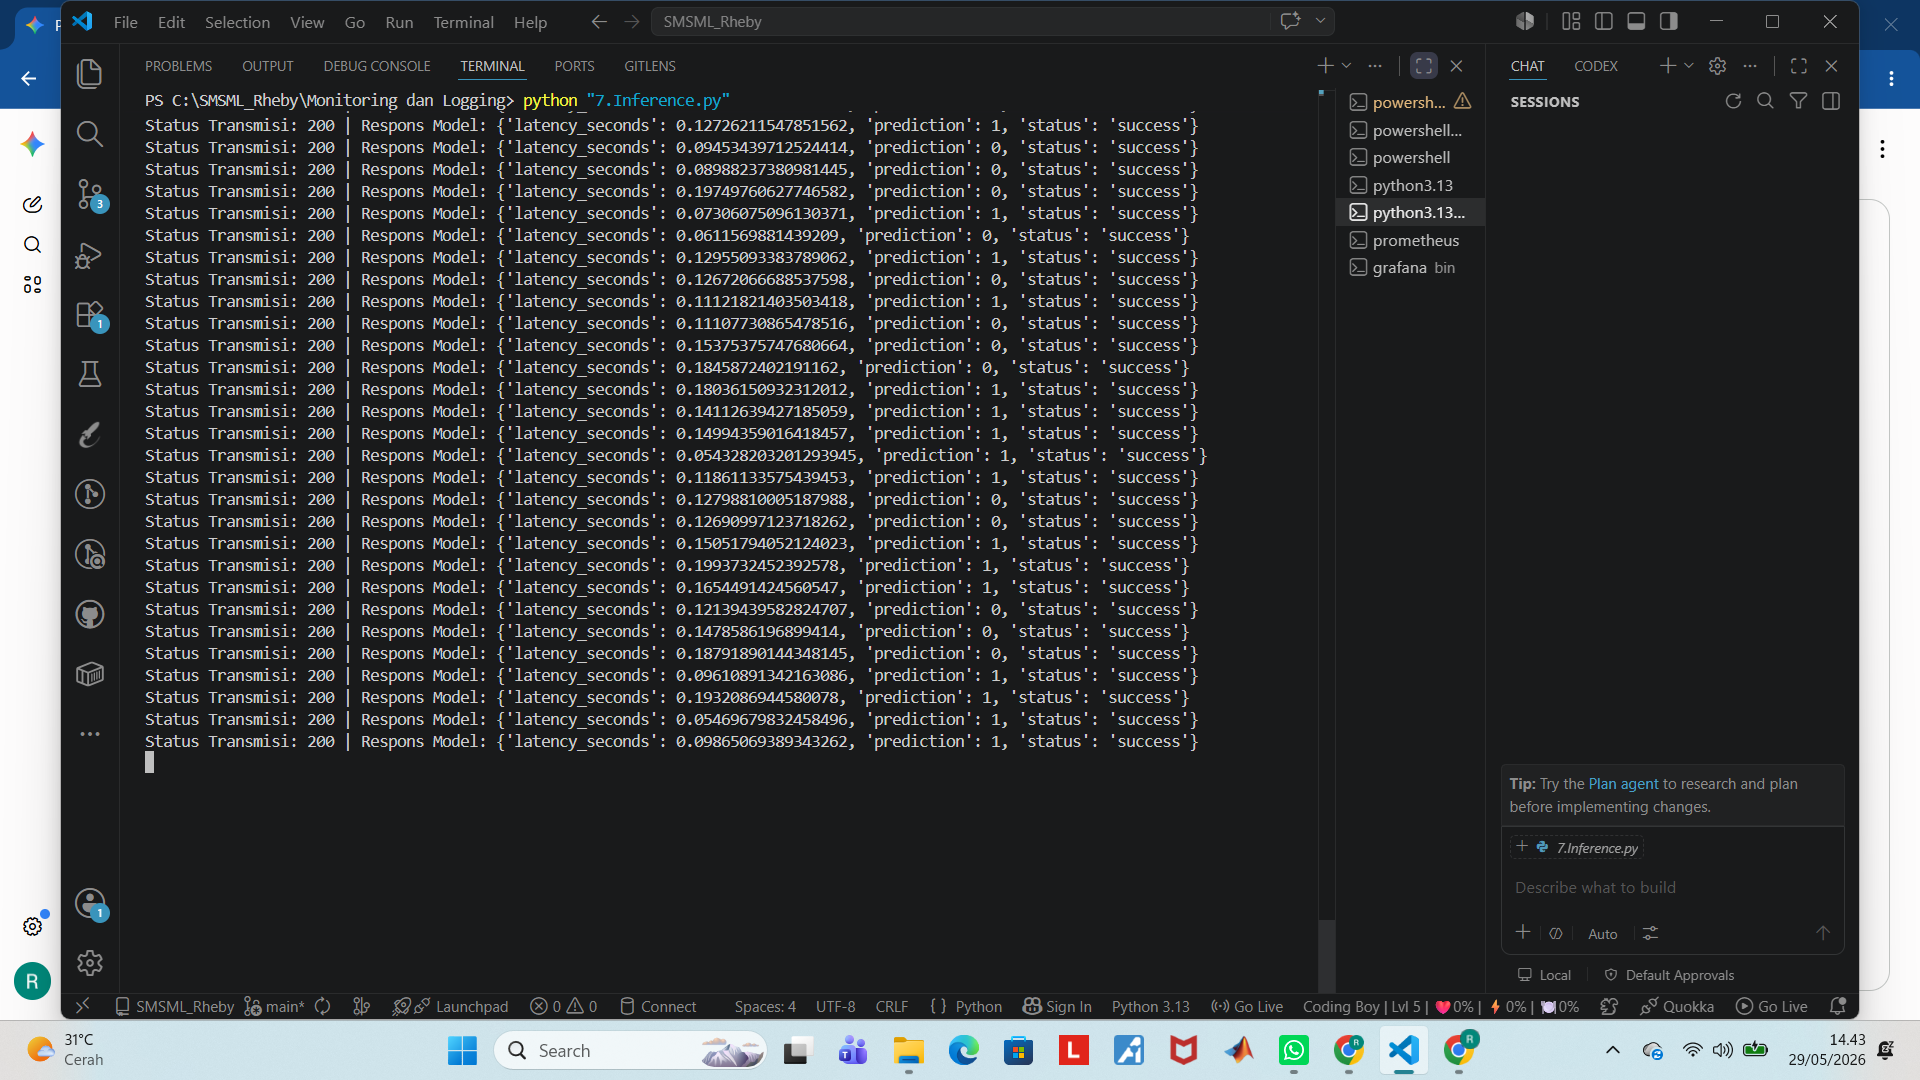
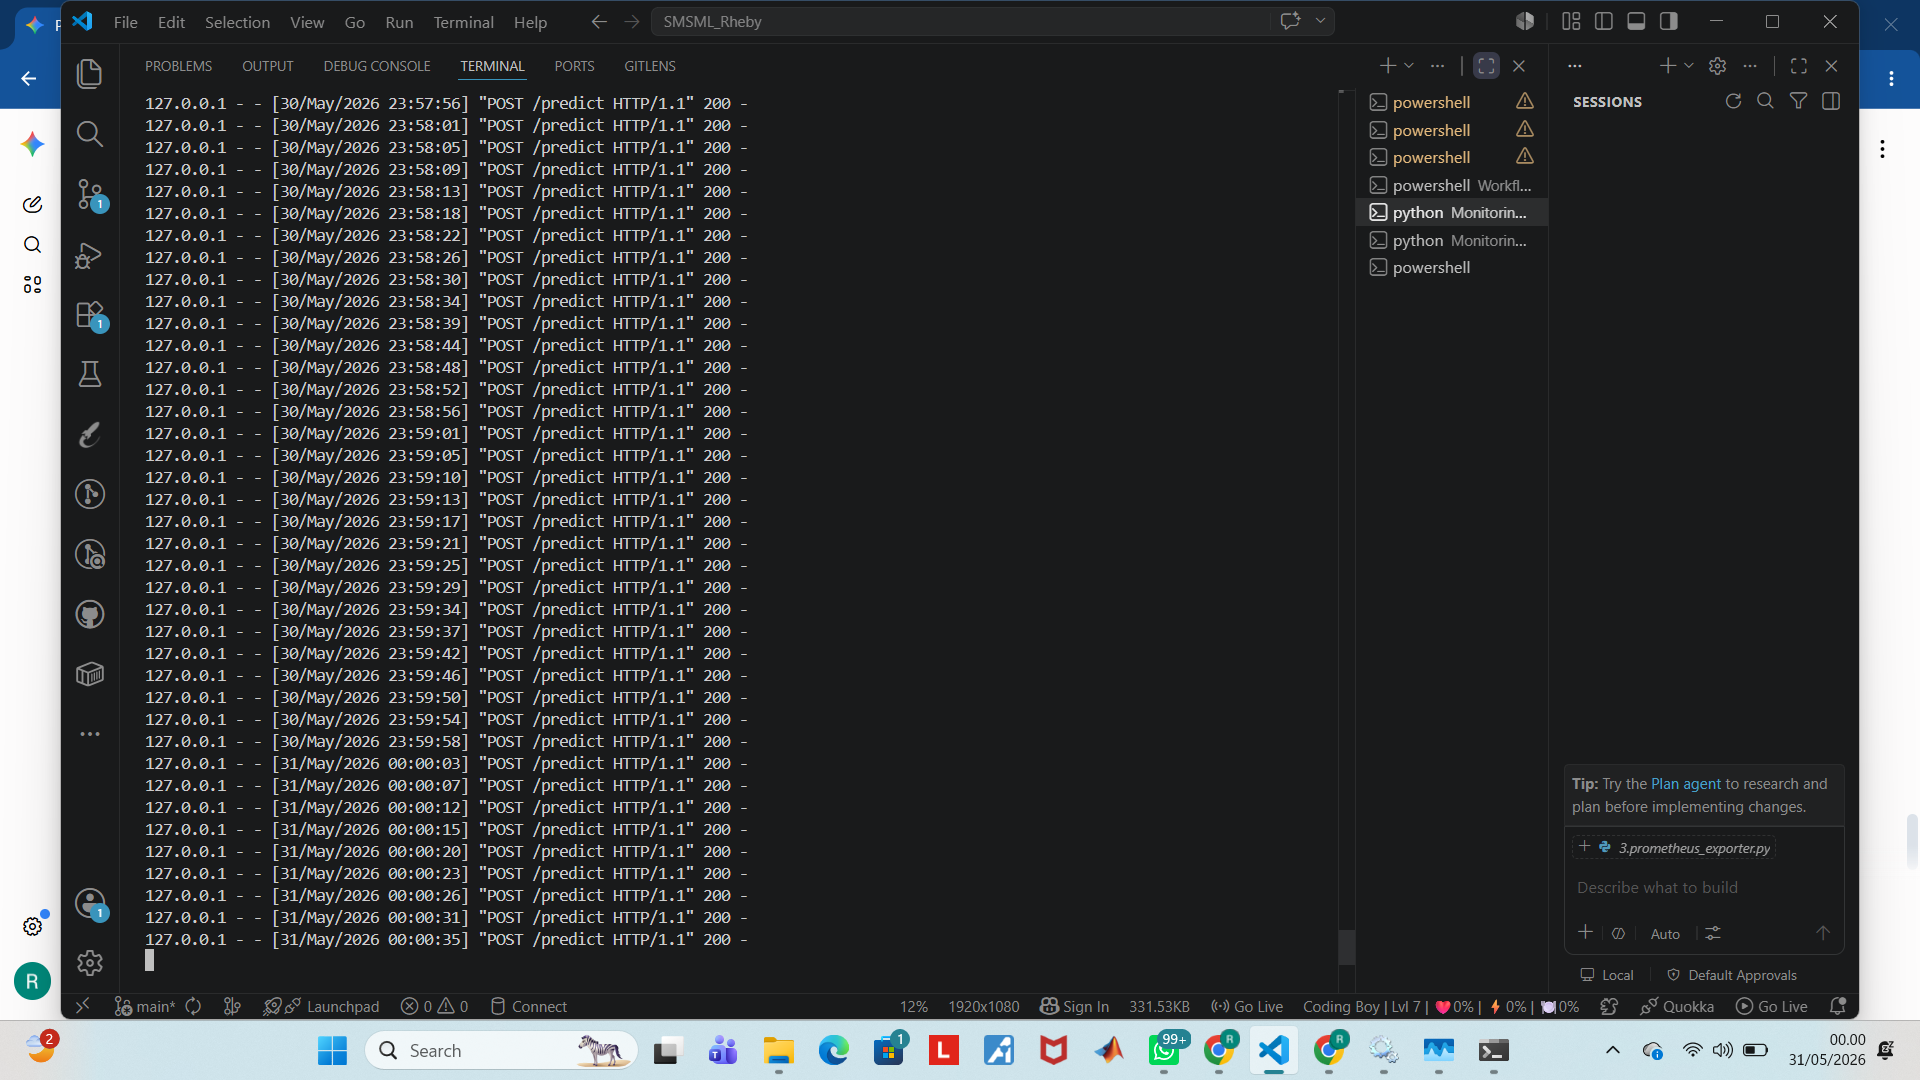
Final submission: Monitoring and Alerting System for ML Model

diff --git a/Monitoring dan Logging/3.prometheus_exporter.py b/Monitoring dan Logging/3.prometheus_exporter.py
@@ -1,65 +1,50 @@
-import time
-import random
-import pandas as pd
 from flask import Flask, request, jsonify
-from prometheus_client import start_http_server, Counter, Histogram
+import time
+import psutil
+from prometheus_client import start_http_server, Counter, Histogram, Gauge, generate_latest, CONTENT_TYPE_LATEST
 
-# 1. Inisialisasi Flask App
 app = Flask(__name__)
 
-# 2. Definisikan Metrik Prometheus sesuai Kriteria Monitoring
-PREDICTION_COUNTER = Counter(
-    'model_predictions_total', 
-    'Total jumlah prediksi yang dilakukan oleh model',
-    ['status']
-)
-PREDICTION_LATENCY = Histogram(
-    'model_prediction_latency_seconds', 
-    'Waktu yang dibutuhkan untuk melakukan inferensi model'
-)
+# --- 10 METRIK  ---
+REQUEST_COUNT = Counter('api_requests_total', 'Total HTTP requests')
+LATENCY = Histogram('model_inference_seconds', 'Waktu inferensi model')
+PRED_RESULTS = Counter('model_predictions_total', 'Hasil prediksi', ['label'])
+ERRORS = Counter('api_errors_total', 'Total HTTP errors', ['code'])
+NULL_INPUTS = Counter('model_input_null_count', 'Jumlah input kosong')
+SYS_MEM = Gauge('system_memory_usage', 'RAM usage')
+SYS_CPU = Gauge('system_cpu_usage', 'CPU usage')
+MODEL_STATUS = Gauge('model_loaded', 'Status model')
+DATA_VOL = Counter('data_volume_processed', 'Jumlah data diproses')
+HTTP_DUR = Histogram('http_duration', 'Durasi HTTP')
+
+MODEL_STATUS.set(1)
 
 @app.route('/predict', methods=['POST'])
 def predict():
-    start_time = time.time()
+    start = time.time()
+    data = request.get_json()
     
-    try:
-        # Mengambil data input JSON dari request
-        data = request.get_json()
-        
-        # --- Simulasi Jalannya Inferensi Model ---
-        # Catatan: Di dunia nyata, kita memuat model pickle/joblib di sini.
-        # Untuk keperluan monitoring metric, kita simulasikan proses pembacaannya.
-        time.sleep(random.uniform(0.05, 0.2))  # Simulasi latensi model
-        
-        # Anggap prediksi sukses dan menghasilkan keputusan loan (1 = disetujui, 0 = ditolak)
-        prediction_result = random.choice([0, 1])
-        
-        # Catat metrik sukses ke Prometheus
-        PREDICTION_COUNTER.labels(status='success').inc()
-        
-        # Hitung durasi latensi
-        latency = time.time() - start_time
-        PREDICTION_LATENCY.observe(latency)
-        
-        return jsonify({
-            'status': 'success',
-            'prediction': prediction_result,
-            'latency_seconds': latency
-        }), 200
+    if not data:
+        NULL_INPUTS.inc()
+        return jsonify({'error': 'No data'}), 400
+    
+    # Simulasi prediksi (Ganti dengan model.predict Anda)
+    pred = 1 
+    
+    # Update Metrik
+    REQUEST_COUNT.inc()
+    LATENCY.observe(time.time() - start)
+    PRED_RESULTS.labels(label=str(pred)).inc()
+    DATA_VOL.inc()
+    
+    return jsonify({'prediction': pred})
 
-    except Exception as e:
-        # Catat metrik error ke Prometheus jika input bermasalah
-        PREDICTION_COUNTER.labels(status='error').inc()
-        return jsonify({
-            'status': 'error',
-            'message': str(e)
-        }), 400
[email redacted]('/metrics')
+def metrics():
+    SYS_MEM.set(psutil.virtual_memory().used)
+    SYS_CPU.set(psutil.cpu_percent())
+    return generate_latest(), 200, {'Content-Type': CONTENT_TYPE_LATEST}
 
 if __name__ == '__main__':
-    # Menjalankan server metrik Prometheus pada port 8000
-    print("Mulai Prometheus Exporter di http://localhost:8000/metrics")
-    start_http_server(8000)
-    
-    # Menjalankan server aplikasi web inferensi (Flask) pada port 5000
-    print("Mulai Model Serving API di http://localhost:5000")
-    app.run(host='0.0.0.0', port=5000)
+    start_http_server(8000) # Port untuk Prometheus
+    app.run(port=5000)      # Port untuk API